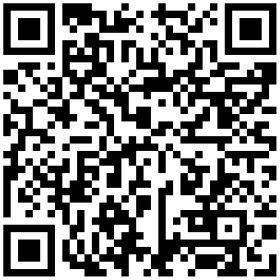
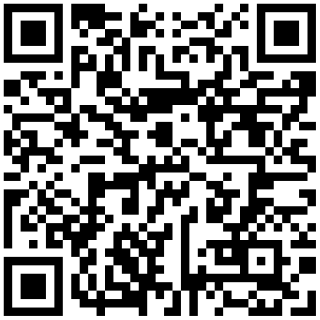
fix(bulk-dynamic-qr-codes-from-csv-python): poll for the QR images instead of waiting in the create call
The bulk create with wait_for_qrcode=True answers 504 after creating
the links once a batch passes a few rows, and the same Idempotency-Key
then creates them again (engineering B23). Create without it and ask
qrcode-images:resolve until every link has its image, as the TypeScript
twin does. links.csv now uses real destinations that match each row's
name; the README carries a fresh live run (2026-11-04) and sample QR.

diff --git a/bulk-dynamic-qr-codes-from-csv-python/bulk_qr.py b/bulk-dynamic-qr-codes-from-csv-python/bulk_qr.py
@@ -9,6 +9,7 @@ import csv
 import hashlib
 import os
 import sys
+import time
 from pathlib import Path
 
 import urllib3
@@ -26,6 +27,7 @@ from linkbreakers.exceptions import ApiException
 # The API accepts at most 250 links per bulk request.
 BATCH_SIZE = 250
 TAG = "csv-import"
+QR_WAIT_ATTEMPTS = 15
 
 
 def client() -> ApiClient:
@@ -59,18 +61,13 @@ def create(input_csv: Path, output_csv: Path, qr_dir: Path) -> None:
                     name=row["name"],
                     destination=row["destination"],
                     tags=[TAG],
-                    wait_for_qrcode=True,
                 )
                 for row in batch
             ])
             # Same batch, same key: a retry after a timeout cannot create duplicates.
             key = hashlib.sha256(request.to_json().encode()).hexdigest()
             created = links_api.links_service_create_bulk(request, idempotency_key=key).links or []
-
-            # Signed image URLs expire, so download the files now.
-            images = links_api.links_service_resolve_qrcode_images(
-                ResolveQrcodeImagesRequest(link_ids=[link.id for link in created])
-            ).qrcode_signed_urls or {}
+            images = qr_images(links_api, [link.id for link in created])
 
             # Links come back in request order.
             for row, link in zip(batch, created):
@@ -89,6 +86,23 @@ def create(input_csv: Path, output_csv: Path, qr_dir: Path) -> None:
 
     write_csv(output_csv, out)
     print(f"\n{len(out)} dynamic QR codes created. Links: {output_csv}  Images: {qr_dir}/")
+
+
+def qr_images(links_api: LinksApi, link_ids: list[str]) -> dict[str, str]:
+    """Each QR code is drawn in the background right after the call. Ask for the
+    images until every link has one; signed URLs expire, so download them now."""
+    images: dict[str, str] = {}
+    for _ in range(QR_WAIT_ATTEMPTS):
+        time.sleep(2)
+        images = links_api.links_service_resolve_qrcode_images(
+            ResolveQrcodeImagesRequest(link_ids=link_ids)
+        ).qrcode_signed_urls or {}
+        if all(link_id in images for link_id in link_ids):
+            break
+    missing = len(link_ids) - len(images)
+    if missing:
+        print(f"{missing} QR codes were not ready yet; run the report later or download them from the dashboard.", file=sys.stderr)
+    return images
 
 
 def report(links_csv: Path, report_csv: Path) -> None:

diff --git a/bulk-dynamic-qr-codes-from-csv-python/README.md b/bulk-dynamic-qr-codes-from-csv-python/README.md
@@ -8,9 +8,9 @@ Turn a CSV of names and URLs into dynamic QR codes and short links in one API ca
 
 The codes are dynamic: each one points at a short link, so you can change where it goes later without reprinting it.
 
-<img src="sample-qr.png" width="160" alt="A QR code created by this example. It opens https://linkbreak.ing/PMVw9HynM, which redirects to the Wikipedia article on QR codes.">
+<img src="sample-qr.png" width="160" alt="A QR code created by this example. It opens https://linkbreak.ing/Un94UKynM, which redirects to a steakhouse's dinner menu.">
 
-*Created by the run below: it opens `https://linkbreak.ing/PMVw9HynM`, which redirects to the Wikipedia article on QR codes.*
+*Created by the run below: it opens `https://linkbreak.ing/Un94UKynM`, which redirects to a steakhouse's dinner menu.*
 
 ## Quickstart
 
@@ -32,13 +32,13 @@ Replace `links.csv` with your own file. The only columns read are `name` and `de
 
 ## Sample output
 
-A real run against the Linkbreakers API on 2026-10-27, with the `links.csv` in this directory:
+A real run against the Linkbreakers API on 2026-11-04, with the `links.csv` in this directory:
 
 ```text
 $ python bulk_qr.py create links.csv
-https://linkbreak.ing/PMVw9HynM  QR code on Wikipedia
-https://linkbreak.ing/QpVwrTmnM  Python home page
-https://linkbreak.ing/xHV6rHynM  OpenStreetMap
+https://linkbreak.ing/Un94UKynM  Dinner menu
+https://linkbreak.ing/fx94Idycp  Store locator
+https://linkbreak.ing/sirfUKmnM  Museum visit
 
 3 dynamic QR codes created. Links: links_out.csv  Images: qr/
 ```
@@ -47,31 +47,31 @@ https://linkbreak.ing/xHV6rHynM  OpenStreetMap
 
 ```csv
 name,destination,short_link,link_id,qr_code_file
-QR code on Wikipedia,https://en.wikipedia.org/wiki/QR_code,https://linkbreak.ing/PMVw9HynM,e923a056-c82c-47bb-888b-76a9464c1948,qr/PMVw9HynM.svg
-Python home page,https://www.python.org/,https://linkbreak.ing/QpVwrTmnM,0e5b6e82-a7d3-4e58-8740-cd231553a6a3,qr/QpVwrTmnM.svg
-OpenStreetMap,https://www.openstreetmap.org/,https://linkbreak.ing/xHV6rHynM,383cc4f2-75cb-42d6-90fd-40e8c32a4012,qr/xHV6rHynM.svg
+Dinner menu,https://peterluger.com/pages/menus,https://linkbreak.ing/Un94UKynM,845a279e-f62c-4686-914b-f315e03dcb38,qr/Un94UKynM.svg
+Store locator,https://www.target.com/store-locator/find-stores,https://linkbreak.ing/fx94Idycp,c9263bb0-fe5d-4597-9a91-07b2a9ee2ee1,qr/fx94Idycp.svg
+Museum visit,https://www.louvre.fr/en/visit,https://linkbreak.ing/sirfUKmnM,659b556a-d994-4fe8-b19a-2ac28c8cc639,qr/sirfUKmnM.svg
 ```
 
-After a few test visits:
+After a few test scans:
 
 ```text
 $ python bulk_qr.py report
-     2  https://linkbreak.ing/PMVw9HynM  QR code on Wikipedia
-     1  https://linkbreak.ing/QpVwrTmnM  Python home page
-     1  https://linkbreak.ing/xHV6rHynM  OpenStreetMap
+     2  https://linkbreak.ing/Un94UKynM  Dinner menu
+     1  https://linkbreak.ing/fx94Idycp  Store locator
+     3  https://linkbreak.ing/sirfUKmnM  Museum visit
 
 Scan report: scan_report.csv
 ```
 
 ## How it works
 
-`bulk_qr.py` is about 150 lines and makes three SDK calls:
+`bulk_qr.py` is about 170 lines and makes three SDK calls:
 
-1. **`LinksApi.links_service_create_bulk`** creates up to 250 links per request (the API's limit; larger files are sent in batches of 250). A batch is transactional: if one row is invalid, none of that batch is created. Each link gets the tag `csv-import` and `wait_for_qrcode=True`, so its QR code exists when the call returns.
-2. **`LinksApi.links_service_resolve_qrcode_images`** returns a signed URL for each link's QR code. The URLs expire, so the script downloads the SVGs right away into `qr/<shortlink>.svg`.
-3. **`LinksApi.links_service_get`** (in `report`) reads each link's `event_count`, the number of scans and clicks. It updates within a few seconds of a scan.
+1. **`LinksApi.links_service_create_bulk`** creates up to 250 links per request (the API's limit; larger files are sent in batches of 250). A batch is transactional: if one row is invalid, none of that batch is created. Each link gets the tag `csv-import`.
+2. **`LinksApi.links_service_resolve_qrcode_images`** returns a signed URL for each link's QR code. The codes are drawn in the background right after the call, so the script asks every 2 seconds (for up to 30 seconds) until every link has one. The URLs expire, so it downloads the SVGs right away into `qr/<shortlink>.svg`.
+3. **`LinksApi.links_service_get`** (in `report`) reads each link's `event_count`, the number of scans and clicks. It is not instant: in the run above, the counts caught up within a minute of the scans.
 
-Each batch is sent with an `Idempotency-Key` derived from its contents. If a run fails halfway (a timeout, a failed download), running it again with the same CSV within 24 hours gets the first response back instead of creating the links twice.
+Each batch is sent with an `Idempotency-Key` derived from its contents. If a run fails after a batch was answered (a failed download, a crash), running it again with the same CSV within 24 hours gets the first response back instead of creating the links twice.
 
 Scanning a code opens `https://linkbreak.ing/<shortlink>?lbsrc=qrcode`, which redirects to the destination; the `lbsrc` parameter is how Linkbreakers tells a scan from a click on the short link.
 
